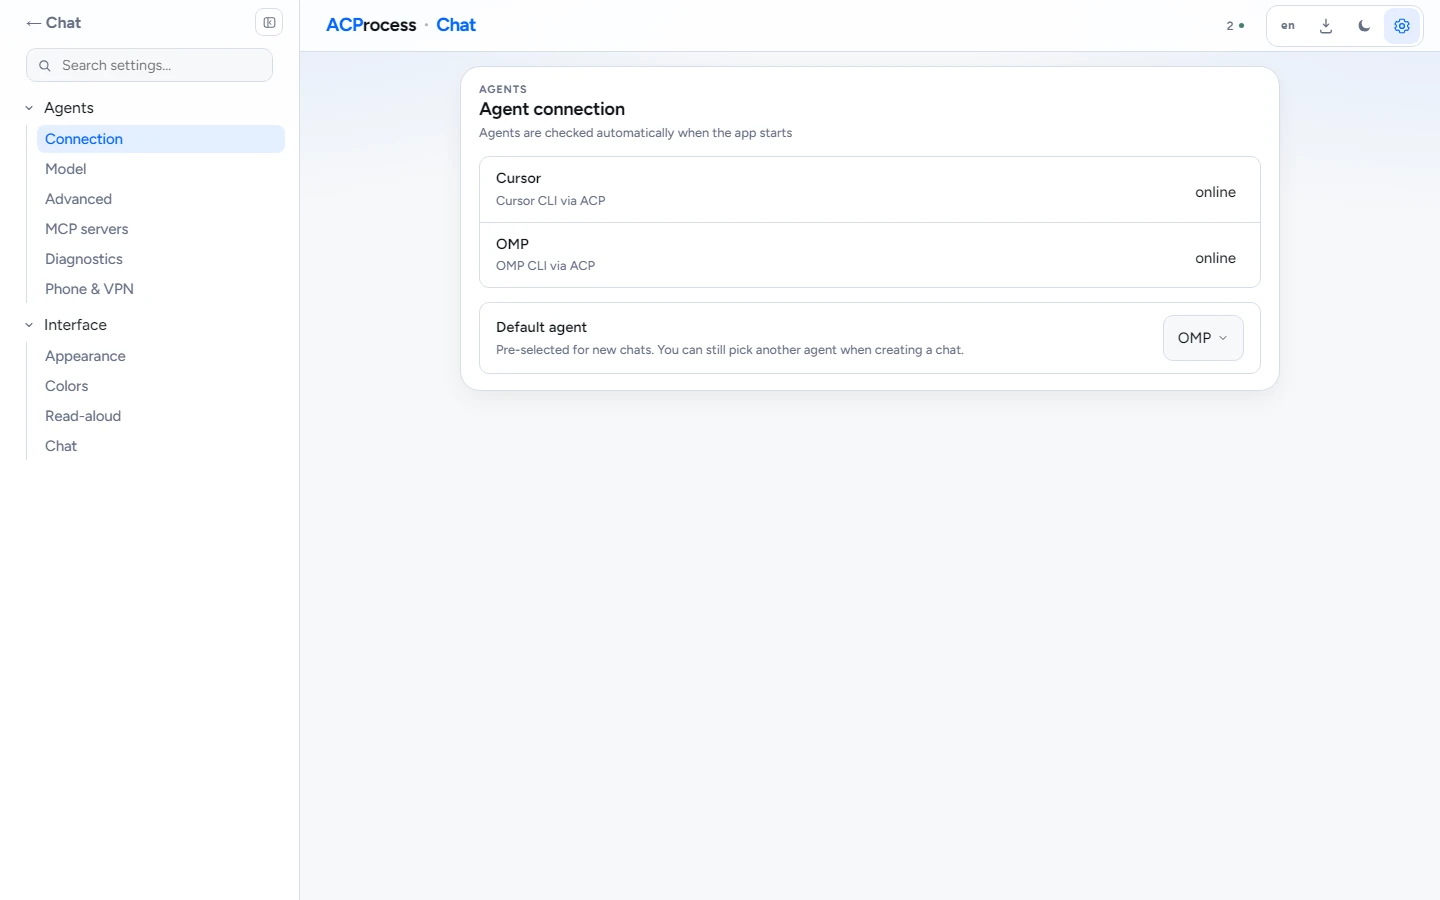
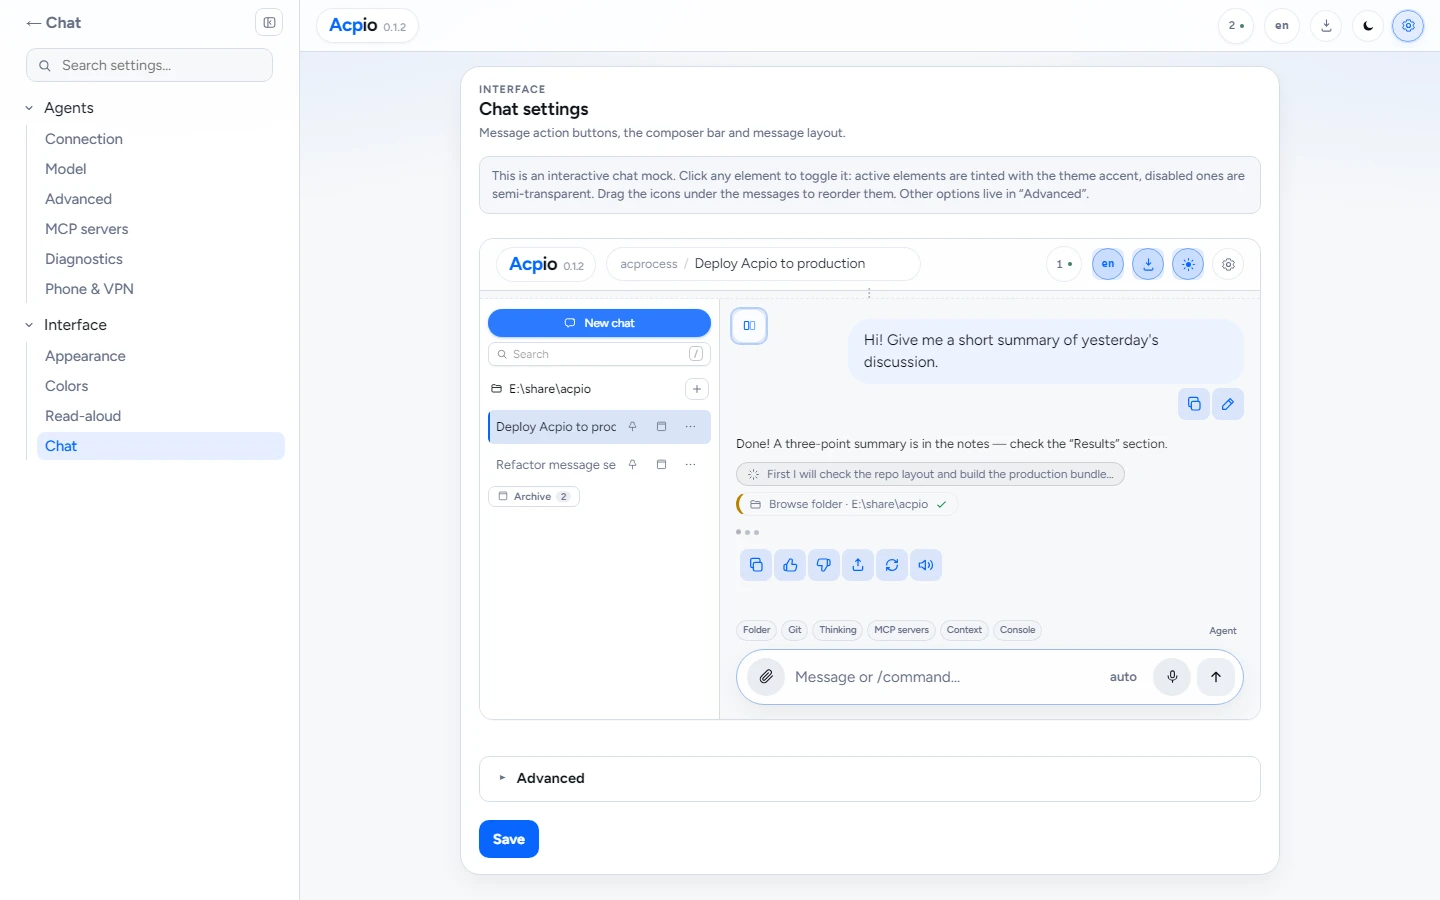
Localize default chat titles and docs screenshots by UI language.

diff --git a/apps/web/src/components/ChatSettingsPreview.tsx b/apps/web/src/components/ChatSettingsPreview.tsx
@@ -9,7 +9,7 @@ import {
   type ChatTreeElementId,
   type ChatTreeMenuId,
 } from "@acpio/shared";
-import { useT } from "../lib/i18n";
+import { useLocale, useT } from "../lib/i18n";
 import { isChatSearchEnabled } from "../lib/chatTreeSearch";
 import styles from "./ChatSettingsPreview.module.css";
 
@@ -546,6 +546,7 @@ export function ChatSettingsPreview({
   onToggleChatSplit: () => void;
 }) {
   const t = useT();
+  const locale = useLocale();
   const mainBarActions = actions.filter((a) => a !== "edit");
   const userBarActions = actions.filter((a) => a === "copy" || a === "edit");
   // User messages can only carry copy/edit; the bot's bar never shows edit.
@@ -643,7 +644,7 @@ export function ChatSettingsPreview({
           <span className={styles.headerChatCtx} aria-hidden>
             <span className={styles.headerChatFolder}>acprocess</span>
             <span className={styles.headerChatSep}>/</span>
-            <span className={styles.headerChatTitle}>Деплой Acpio на прод</span>
+            <span className={styles.headerChatTitle}>{t("settings.chatPreviewChatTitle")}</span>
           </span>
           <div className={styles.headerActions}>
             <span className={styles.agentChipWrap} aria-hidden>
@@ -660,7 +661,7 @@ export function ChatSettingsPreview({
                 label={t("settings.chatHeaderIconLang")}
               >
                 <span className={styles.toolClusterBtn}>
-                  <span className={styles.toolClusterLang}>ru</span>
+                  <span className={styles.toolClusterLang}>{locale}</span>
                 </span>
               </El>
               <El
@@ -817,8 +818,8 @@ export function ChatSettingsPreview({
             </div>
 
             {[
-              { title: "Деплой Acpio на прод", busy: true },
-              { title: "Рефакторинг поиска сообщений", busy: false },
+              { title: t("settings.chatPreviewChatTitle"), busy: true },
+              { title: t("settings.chatPreviewChatTitle2"), busy: false },
             ].map((row, i) => (
               <div
                 key={row.title}
@@ -964,7 +965,7 @@ export function ChatSettingsPreview({
               <div className={styles.threadInner}>
               <div className={`${styles.msgRow} ${styles.userMsg}`}>
                 <div className={styles.userBubble}>
-                  {t("chatPreviewUser")}
+                  {t("settings.chatPreviewUser")}
                   {showTime ? <span className={styles.time}>{now}</span> : null}
                 </div>
               </div>
@@ -980,7 +981,7 @@ export function ChatSettingsPreview({
               <div className={`${styles.msgRow} ${styles.assistantMsg}`}>
                 <div className={styles.assistantCol}>
                   <div className={styles.assistantText}>
-                    {t("chatPreviewAssistant")}
+                    {t("settings.chatPreviewAssistant")}
                     {showTime ? <span className={styles.time}>{now}</span> : null}
                   </div>
                   <div className={styles.thought} aria-hidden>
@@ -992,7 +993,7 @@ export function ChatSettingsPreview({
                         strokeLinecap="round"
                       />
                     </svg>
-                    <span>{t("chatPreviewThought")}</span>
+                    <span>{t("settings.chatPreviewThought")}</span>
                   </div>
                   <div className={styles.toolRow} aria-hidden>
                     <svg width="13" height="13" viewBox="0 0 24 24" fill="none">
@@ -1010,7 +1011,7 @@ export function ChatSettingsPreview({
                         strokeLinejoin="round"
                       />
                     </svg>
-                    <span>{t("chatPreviewTool")}</span>
+                    <span>{t("settings.chatPreviewTool")}</span>
                     <svg className={styles.toolCheck} width="13" height="13" viewBox="0 0 24 24" fill="none">
                       <path d="M5 13l4 4L19 7" stroke="currentColor" strokeWidth="2" strokeLinecap="round" strokeLinejoin="round" />
                     </svg>

diff --git a/apps/web/src/lib/panelLayout.ts b/apps/web/src/lib/panelLayout.ts
@@ -1,5 +1,4 @@
 import { useLayoutEffect, useEffect, useMemo, useState, type RefObject } from "react";
-import { useAppStore } from "./store";
 
 /** Plan / console / git panels overlay the chat below this viewport width. */
 export const COMPACT_PANEL_LAYOUT_MAX = 1180;
@@ -19,7 +18,7 @@ export function wideOverlayPanelMin(sidebarOpen: boolean) {
   return sidebarOpen ? WIDE_OVERLAY_PANEL_MIN_TREE_OPEN : WIDE_OVERLAY_PANEL_MIN_TREE_COLLAPSED;
 }
 
-export function isOverlayPanelLayout(width = window.innerWidth, _sidebarOpen = useAppStore.getState().sidebarOpen) {
+export function isOverlayPanelLayout(width = typeof window !== "undefined" ? window.innerWidth : 0) {
   return width <= COMPACT_PANEL_LAYOUT_MAX;
 }
 
@@ -107,12 +106,12 @@ export function isSidePanelResizeAllowed(width = window.innerWidth) {
   return width > COMPACT_PANEL_LAYOUT_MAX;
 }
 
-export function isDockedPanelLayout(width = window.innerWidth, sidebarOpen = useAppStore.getState().sidebarOpen) {
+export function isDockedPanelLayout(width = typeof window !== "undefined" ? window.innerWidth : 0) {
   return isSidePanelResizeAllowed(width);
 }
 
-export function isCompactPanelLayout(width = window.innerWidth, sidebarOpen = useAppStore.getState().sidebarOpen) {
-  return isOverlayPanelLayout(width, sidebarOpen);
+export function isCompactPanelLayout(width = typeof window !== "undefined" ? window.innerWidth : 0) {
+  return isOverlayPanelLayout(width);
 }
 
 export function isChatSplitAllowed(width = window.innerWidth) {
@@ -120,7 +119,6 @@ export function isChatSplitAllowed(width = window.innerWidth) {
 }
 
 export function useOverlayPanelLayout() {
-  const sidebarOpen = useAppStore((s) => s.sidebarOpen);
   const [width, setWidth] = useState(() => (typeof window !== "undefined" ? window.innerWidth : 0));
 
   useEffect(() => {
@@ -130,7 +128,7 @@ export function useOverlayPanelLayout() {
     return () => window.removeEventListener("resize", sync);
   }, []);
 
-  return useMemo(() => isOverlayPanelLayout(width, sidebarOpen), [sidebarOpen, width]);
+  return useMemo(() => isOverlayPanelLayout(width), [width]);
 }
 
 export function useChatSplitAllowed() {

diff --git a/apps/web/src/components/SearchDialog.tsx b/apps/web/src/components/SearchDialog.tsx
@@ -4,6 +4,7 @@ import { useNavigate } from "react-router-dom";
 import type { SessionDto } from "@acpio/shared";
 import { api, type MessageSearchHit } from "../lib/api";
 import { useLocale, useT } from "../lib/i18n";
+import { sessionTreeDisplayTitle } from "../lib/sessionTitle";
 import { useAppStore } from "../lib/store";
 import { formatRelativeActivity } from "./ChatSidebar";
 import styles from "./SearchDialog.module.css";
@@ -300,7 +301,10 @@ export function SearchDialog({
                 >
                   <span className={styles.hitTop}>
                     <span className={styles.hitTitle}>
-                      <Highlight text={session.title || t("common.newChat")} needle={chatNeedle} />
+                      <Highlight
+                        text={sessionTreeDisplayTitle(session.title, session.provider, t("common.newChat")) || t("common.newChat")}
+                        needle={chatNeedle}
+                      />
                     </span>
                     <span className={styles.hitMeta}>
                       {formatRelativeActivity(
@@ -335,7 +339,10 @@ export function SearchDialog({
                 onMouseEnter={() => setActiveIndex(index)}
               >
                 <span className={styles.hitTop}>
-                  <span className={styles.hitTitle}>{hit.sessionTitle || t("common.newChat")}</span>
+                  <span className={styles.hitTitle}>
+                    {sessionTreeDisplayTitle(hit.sessionTitle, undefined, t("common.newChat")) ||
+                      t("common.newChat")}
+                  </span>
                   <span className={styles.hitMeta}>
                     {formatRelativeActivity(hit.createdAt, locale, t, nowMs)}
                   </span>

diff --git a/apps/web/src/components/AppShell.tsx b/apps/web/src/components/AppShell.tsx
@@ -26,7 +26,7 @@ import { ChatSidebar } from "./ChatSidebar";
 import { collectRecentCwds, CreateSessionFolderPicker } from "./CreateSessionFolderPicker";
 import { harnessShortLabel } from "../lib/harness";
 import { normalizeCwd } from "../lib/pathSegments";
-import { firstUserTitleLine, sessionTreeDisplayTitle, truncateSessionTitle } from "../lib/sessionTitle";
+import { firstUserTitleLine, localizePlaceholderSessionTitle, sessionTreeDisplayTitle, truncateSessionTitle } from "../lib/sessionTitle";
 import { showToast } from "../lib/toast";
 import { HoverTip } from "./HoverTip";
 import { InstallAppButton } from "./InstallAppButton";
@@ -121,8 +121,11 @@ export function AppShell() {
       activeSession?.id === headerSession.id
         ? activeSession
         : sessionDetails[headerSession.id];
-    return headerChatTitle(headerSession, detail?.messages);
-  }, [activeSession, headerSession, sessionDetails]);
+    return localizePlaceholderSessionTitle(
+      headerChatTitle(headerSession, detail?.messages),
+      t("common.newChat"),
+    );
+  }, [activeSession, headerSession, sessionDetails, t]);
   const settingsTree = useMemo(() => getSettingsTree(t), [t]);
   const settingsQuery = useAppStore((s) => s.settingsQuery);
   const setSettingsQuery = useAppStore((s) => s.setSettingsQuery);
@@ -1177,7 +1180,7 @@ export function AppShell() {
                       }}
                     >
                       <span className={styles.railMenuItemText}>
-                        {sessionTreeDisplayTitle(s.title, s.provider)}
+                        {sessionTreeDisplayTitle(s.title, s.provider, t("common.newChat"))}
                       </span>
                     </button>
                   ))

diff --git a/apps/web/src/lib/sessionTitle.ts b/apps/web/src/lib/sessionTitle.ts
@@ -9,14 +9,32 @@ import type { MessageDto } from "@acpio/shared";
 import { isShellSession, sanitizeTitleSource, truncateSessionTitle } from "@acpio/shared";
 
 const SHELL_TREE_SUFFIX = "-shell";
+const PLACEHOLDER_TITLES = new Set(["новый чат", "new chat"]);
+
+function splitShellSuffix(title: string): { base: string; shell: boolean } {
+  const trimmed = title.trim();
+  if (trimmed.toLowerCase().endsWith(SHELL_TREE_SUFFIX)) {
+    return { base: trimmed.slice(0, -SHELL_TREE_SUFFIX.length).trim(), shell: true };
+  }
+  return { base: trimmed, shell: false };
+}
+
+/** Map stored “New chat” / “Новый чат” to the current UI language. */
+export function localizePlaceholderSessionTitle(title: string, placeholder: string): string {
+  const { base, shell } = splitShellSuffix(title);
+  if (!PLACEHOLDER_TITLES.has(base.toLowerCase())) return title;
+  return shell ? `${placeholder}${SHELL_TREE_SUFFIX}` : placeholder;
+}
 
 /** Tree label for shell chats: append `-shell` to the stored title (badge stays "Shell"). */
 export function sessionTreeDisplayTitle(
   title: string,
   provider: string | null | undefined,
+  placeholderTitle?: string,
 ): string {
-  if (!isShellSession(provider)) return title;
-  const base = title.trim();
+  const localized = placeholderTitle ? localizePlaceholderSessionTitle(title, placeholderTitle) : title;
+  if (!isShellSession(provider)) return localized;
+  const base = localized.trim();
   if (!base) return "shell";
   if (base.toLowerCase().endsWith(SHELL_TREE_SUFFIX)) return base;
   return `${base}${SHELL_TREE_SUFFIX}`;

diff --git a/apps/web/src/lib/sessionTitle.test.ts b/apps/web/src/lib/sessionTitle.test.ts
@@ -1,0 +1,26 @@
+import { describe, expect, it } from "vitest";
+import { localizePlaceholderSessionTitle, sessionTreeDisplayTitle } from "./sessionTitle";
+
+describe("localizePlaceholderSessionTitle", () => {
+  it("maps Russian default title to English", () => {
+    expect(localizePlaceholderSessionTitle("Новый чат", "New chat")).toBe("New chat");
+  });
+
+  it("maps English default title to Russian", () => {
+    expect(localizePlaceholderSessionTitle("New chat", "Новый чат")).toBe("Новый чат");
+  });
+
+  it("keeps a custom title", () => {
+    expect(localizePlaceholderSessionTitle("Deploy Acpio", "New chat")).toBe("Deploy Acpio");
+  });
+
+  it("keeps the shell suffix", () => {
+    expect(localizePlaceholderSessionTitle("Новый чат-shell", "New chat")).toBe("New chat-shell");
+  });
+});
+
+describe("sessionTreeDisplayTitle", () => {
+  it("localizes then adds -shell for shell sessions", () => {
+    expect(sessionTreeDisplayTitle("Новый чат", "shell", "New chat")).toBe("New chat-shell");
+  });
+});

diff --git a/apps/web/src/components/ChatSidebar.tsx b/apps/web/src/components/ChatSidebar.tsx
@@ -914,9 +914,9 @@ export function ChatSidebar({ onOpenSearch }: { onOpenSearch?: () => void }) {
               <span className={styles.sessionTitle}>
                 <span
                   className={styles.sessionTitleText}
-                  title={sessionTreeDisplayTitle(s.title, s.provider)}
+                  title={sessionTreeDisplayTitle(s.title, s.provider, t("common.newChat"))}
                 >
-                  {sessionTreeDisplayTitle(s.title, s.provider)}
+                  {sessionTreeDisplayTitle(s.title, s.provider, t("common.newChat"))}
                 </span>
                 {(showRunning || showUnseen) && (
                   showRunning ? (

diff --git a/packages/i18n/src/messages/ru.ts b/packages/i18n/src/messages/ru.ts
@@ -403,7 +403,8 @@ export const ru = {
     chatPreviewHeader: "Шапка",
     chatPreviewTree: "Дерево чатов",
     chatPreviewChat: "Чат",
-    chatPreviewChatTitle: "Рабочий чат",
+    chatPreviewChatTitle: "Деплой Acpio на прод",
+    chatPreviewChatTitle2: "Рефакторинг поиска сообщений",
     chatTreeElNewChat: "Новый чат",
     chatTreeElSearch: "Поиск",
     chatTreeElSearchMsgs: "Поиск по сообщениям",

diff --git a/apps/web/src/pages/ChatPage.tsx b/apps/web/src/pages/ChatPage.tsx
@@ -5666,7 +5666,7 @@ function SplitPaneChrome({
         {running ? <span className={styles.splitChromeLive} aria-hidden /> : null}
         <span className={styles.splitChromeName}>
           {sessionTitle
-            ? sessionTreeDisplayTitle(sessionTitle, sessionProvider)
+            ? sessionTreeDisplayTitle(sessionTitle, sessionProvider, t("common.newChat"))
             : t("chat.splitEmptyTitle")}
         </span>
       </span>

diff --git a/packages/i18n/src/messages/en.ts b/packages/i18n/src/messages/en.ts
@@ -379,7 +379,8 @@ export const en = {
     chatPreviewHeader: "Header",
     chatPreviewTree: "Chat tree",
     chatPreviewChat: "Chat",
-    chatPreviewChatTitle: "Workspace chat",
+    chatPreviewChatTitle: "Deploy Acpio to production",
+    chatPreviewChatTitle2: "Refactor message search",
     chatTreeElNewChat: "New chat",
     chatTreeElSearch: "Search",
     chatTreeElSearchMsgs: "Search messages",

diff --git a/docs/usage-ru.md b/docs/usage-ru.md
@@ -13,7 +13,12 @@
 - **Tool calls** — каждый вызов инструмента как карточка с аргументами и результатом.
 - **Субагенты** — `task`-запросы с прогрессом, ростером и вложенным thinking.
 - **Права и вопросы** — inline-запросы, когда агенту нужно разрешение или ответ пользователя.
-- **Поле ввода** — вложения, модель/режим на чат, **Стоп** для отмены текущего хода.
+- **Поле ввода** — вложения, модель/режим на чат, **Стоп** для отмены текущего хода. Чипы над полем сворачиваются в **Ещё**, как только чип не помещается.
+- **План, git, терминал** — стоят сбоку, пока рядом остаётся нормальная колонка чата. Если от чата остаётся узкая полоска (или окно уже узкое), вкладка занимает всю область чата, пока её не закрыть.
+
+Пустые чаты с названием «Новый чат» / “New chat” в дереве и шапке следуют языку **Настройки → Чат**. Свои названия не переводятся.
+
+### Слэш-команды
 
 ### Слэш-команды
 

diff --git a/readme-ru.md b/readme-ru.md
@@ -72,11 +72,11 @@ npm run dev       # UI http://localhost:5173, API http://localhost:3001
 
 Подключение агентов, модели, доступ с телефона по VPN/LAN.
 
-| Настройки | Агенты | Телефон и VPN | Мобильный |
+| Настройки чата | Агенты | Телефон и VPN | Мобильный |
 |---|---|---|---|
 | ![Настройки](docs/screens/settings.webp) | ![Агенты](docs/screens/settings-agents.webp) | ![Удалённый доступ](docs/screens/settings-remote.webp) | ![Мобильный чат](docs/screens/mobile-chat.webp) |
 
-Переснять скриншоты после изменений UI: `npm run screens` (нужны `npm run dev` и `npx playwright install chromium`).
+Переснять скриншоты после изменений UI: `npm run screens` (нужны `npm run dev` и `npx playwright install chromium`). Английские кадры — файлы `*-en.webp`, русские — без суффикса. Скрипт выбирает чаты, чей текст совпадает с языком кадра.
 
 ## Прод-сборка
 
